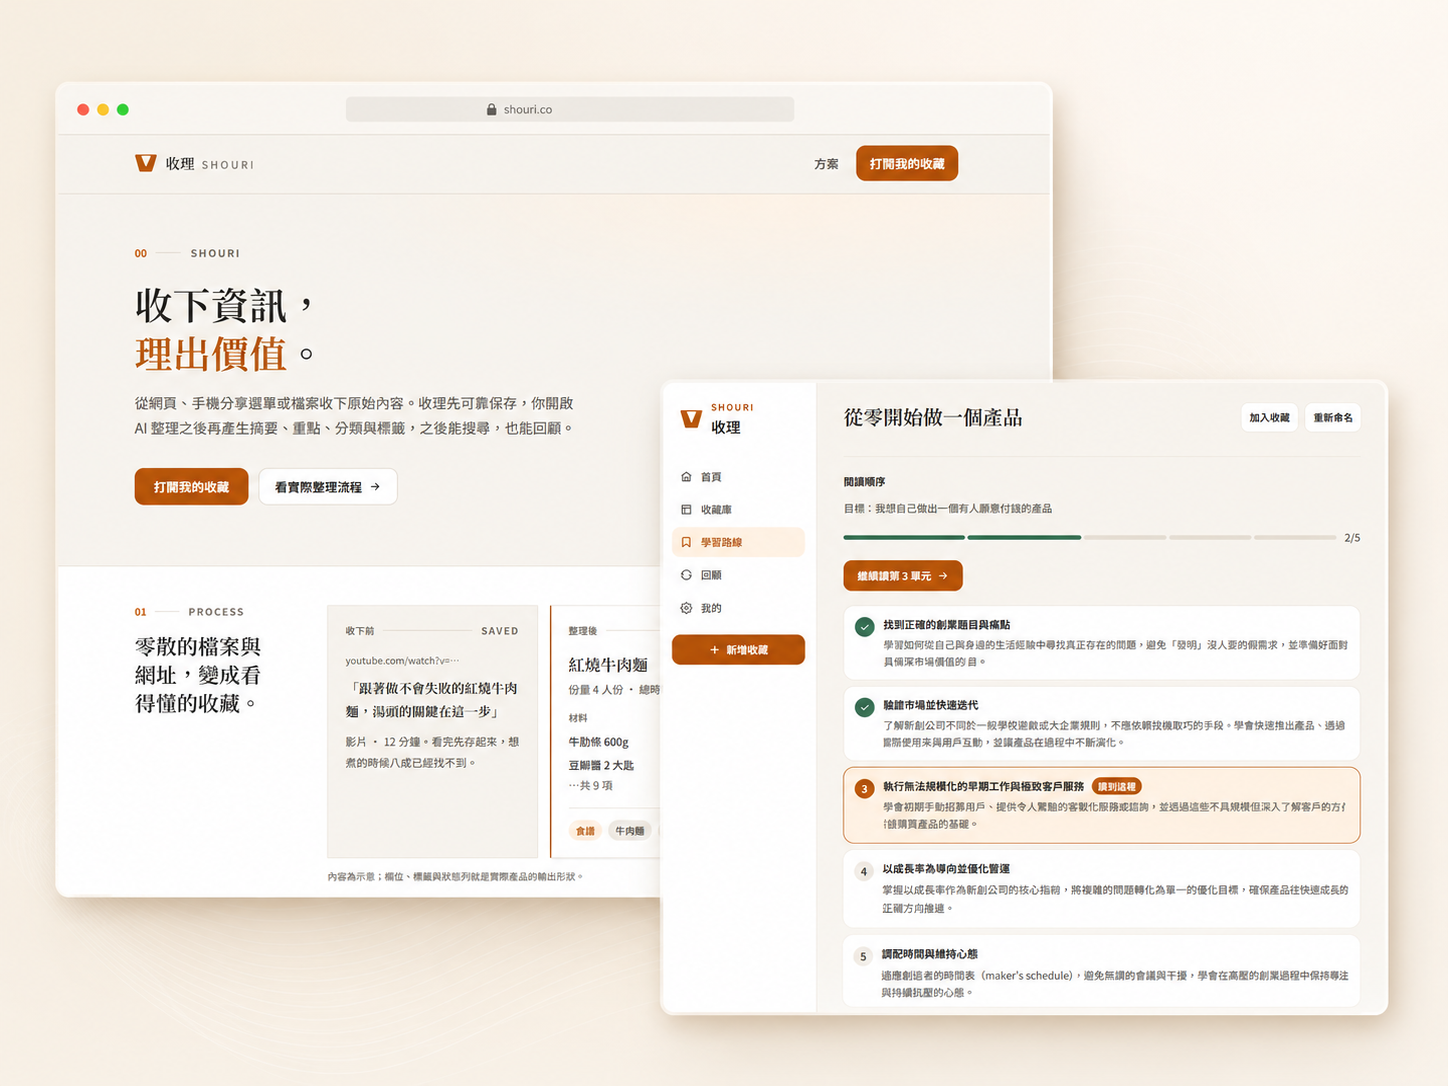
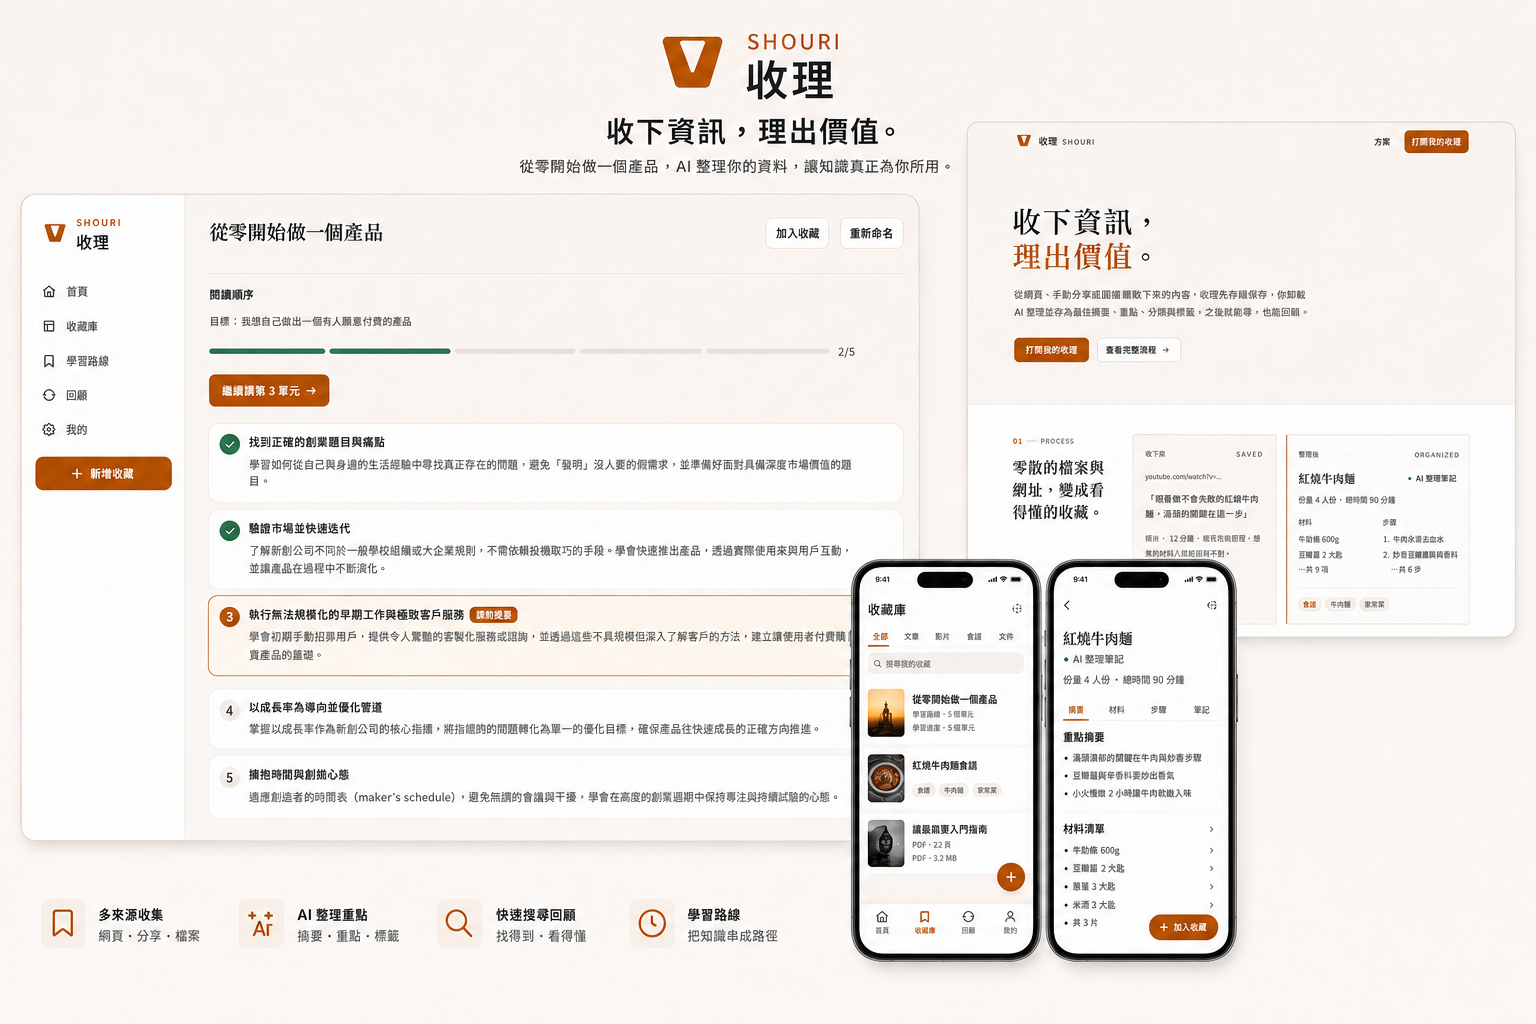
feat(mcd-4): replace the Shouri screenshot and hold it to the reading measure
The new screenshot is a different composition — wordmark, desktop app,
product page, two phone screens — so the alt text in both locales is
rewritten to describe what is actually there rather than the previous
image's two windows.

The figure was the only element in the section without a width cap: the
summary above it sits at the 720px reading measure while the image blew
out to the full 1160px content width, so the two never lined up. Both
are at the reading measure now. `widths`/`sizes` follow, which also
drops the served variant from 44KB to 26KB at 1x.

The source PNG is recompressed losslessly (1.61MB to 1.32MB,
pixel-identical) since it is committed.

diff --git a/src/i18n/pages/home.ts b/src/i18n/pages/home.ts
@@ -175,7 +175,7 @@ export const home = {
       summary:
         'An AI-powered information organizer for capturing webpages, files and media, then turning them into structured, searchable knowledge.',
       screenshot: {
-        alt: 'The Shouri web app. Behind, a saved cooking video sits beside the structured recipe it was turned into — ingredients, quantities, and tags. In front, a learning path tracks progress through a five-unit plan.',
+        alt: 'Shouri on desktop and phone. The web app works through a five-unit learning path; behind it the product page shows a saved cooking video beside the structured recipe it became. Two phone screens show the saved library and that recipe broken into summary, ingredients, and steps.',
       },
       principlesHeading: 'Product principles',
       principles: [
@@ -316,7 +316,7 @@ export const home = {
       heading: 'Shouri / 收理',
       summary: '以 AI 驅動的資訊整理工具，能收下網頁、檔案與影音，再整理成結構化、可搜尋的知識。',
       screenshot: {
-        alt: '收理的網頁應用。後方是一段收下的料理影片，與整理後的結構化食譜並列，包含材料、份量與標籤；前方是追蹤五個單元進度的學習路徑。',
+        alt: '收理在桌機與手機上的畫面。網頁應用正進行五個單元的學習路線；後方的產品頁把一段收下的料理影片與整理後的結構化食譜並列。兩個手機畫面則是收藏庫，以及拆成摘要、材料與步驟的同一份食譜。',
       },
       principlesHeading: '產品原則',
       principles: [
